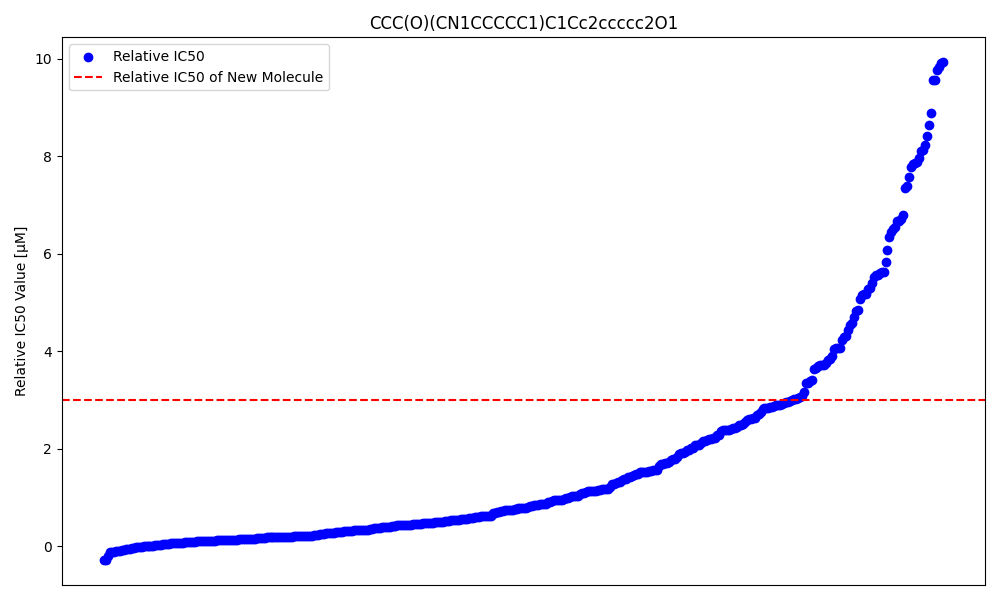
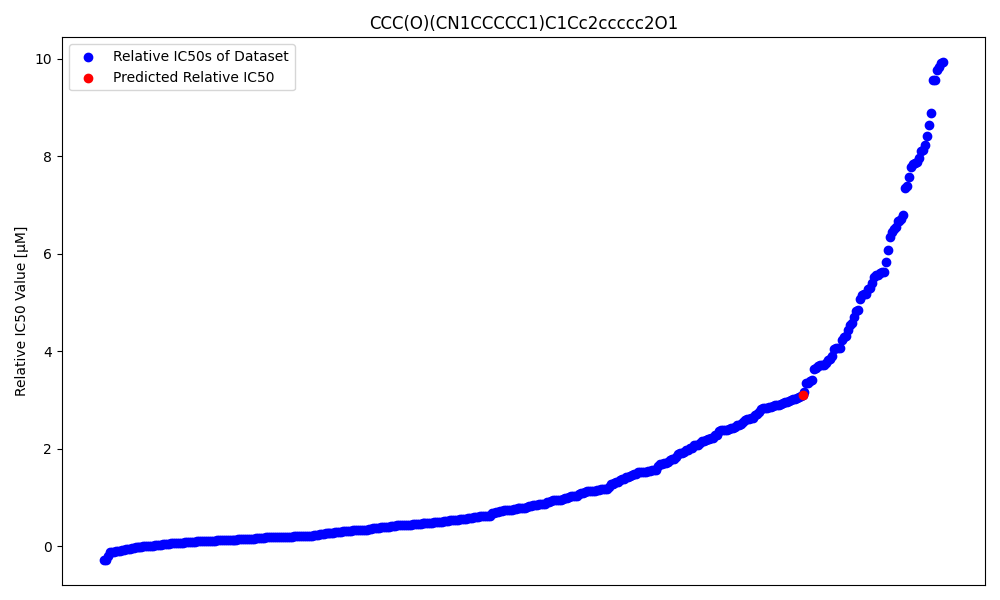
new commit

diff --git a/templates/results.html b/templates/results.html
@@ -66,7 +66,7 @@
                   <div class = "col s6 desc-info">
                     <h5 class = "blue-grey-text text-lighten-3 fing-imp-header"> Descriptor Feature Importance</h5>
                     {% if isGraph %}
-                      <img class = "responsive-img materialboxed" src = "/static/imgs/descriptor_plot.png" width = 396px  alt = "No Descriptor Data">
+                      <img class = "responsive-img materialboxed" src = "/static/imgs/descriptor_plot.png" width = 396px alt = "No Descriptor Data">
                     {%else%}
                       <p class = "grey-text text-lighten-2"> No Descriptor Data </p>
                     {% endif %}
@@ -88,7 +88,11 @@
                 <div class = "row">
                   <div class = "col s12">
                     <h5 class = "blue-grey-text text-lighten-3 fing-imp-header"> Relative IC50 Ranking </h5>
-                    <img class = "responsive-img materialboxed" src = "/static/imgs/sp_rank.png" width = 1000px  alt = "No Descriptor Data">
+                    {% if isRanked %}
+                      <img class = "responsive-img materialboxed" src = "/static/imgs/sp_rank.png" width = 1000px  alt = "No Ranking Data">
+                    {% else %}
+                      <p class = "grey-text text-lighten-2"> No Ranking Data </p>
+                    {% endif %}
                   </div>
                 </div>
               </div>

diff --git a/static/css/styles2.css b/static/css/styles2.css
@@ -79,3 +79,11 @@ body {
     font-size: 15px;
     text-decoration: underline;
 }
+
+th, td {
+    color: #fff; 
+}
+
+.arr {
+    color: white;
+}

diff --git a/utils/featureAnalysis.py b/utils/featureAnalysis.py
@@ -91,24 +91,28 @@ def graph_spearman_ranking(smiles, mol):
     df2 = pd.read_csv('models/data/reg_fing_desc_clean.csv')
     X = df2.iloc[:, :-1].values
     y = df2.iloc[:, -1].values
-    print(y)
     X_train, X_test, y_train, y_test = train_test_split(X, y, test_size = 0.25, random_state = 1)
     sc = StandardScaler()
     X_train = sc.fit_transform(X_train)
     df_feat_arr = sc.transform(df_feat_arr)
     model2 = pickle.load(open('models/model2.pkl', 'rb'))
     prediction = model2.predict(df_feat_arr)
-    ic50_val = int(prediction[0])
-    df_sorted = df.sort_values(by=df.columns[0])
+    ic50_val = prediction[0]
+    new_row = pd.DataFrame({df.columns[0]: [ic50_val]})
+    df_with_pred = pd.concat([df, new_row], ignore_index=True)
+    df_sorted = df_with_pred.sort_values(by=df.columns[0])
     df_sorted.reset_index(drop=True, inplace=True)
+    pred_index = df_sorted.index[df_sorted[df.columns[0]] == ic50_val][0]
     plt.figure(figsize=(10, 6))
-    plt.scatter(df_sorted.index, df_sorted[df.columns[0]], color='blue', label='Relative IC50')
+    plt.scatter(df_sorted.index, df_sorted[df.columns[0]], color='blue', label='Relative IC50s of Dataset')
+    plt.scatter(pred_index, ic50_val, color='red', zorder=5, label='Predicted Relative IC50')
     plt.ylabel('Relative IC50 Value [µM]')
     plt.title(smiles)
-    plt.axhline(y=ic50_val, color='red', linestyle='--', label='Relative IC50 of New Molecule')
     plt.xticks([])
     plt.legend()
     plt.tight_layout()
     plt.show()
     plt.savefig('static/imgs/sp_rank.png')
+    filtered_df = df_sorted[(df_sorted[df_sorted.columns[0]] >= ic50_val - 0.1) & (df_sorted[df_sorted.columns[0]] <= ic50_val + 0.1)]
+    return filtered_df[[filtered_df.columns[0]]], filtered_df["Smiles"]
     
